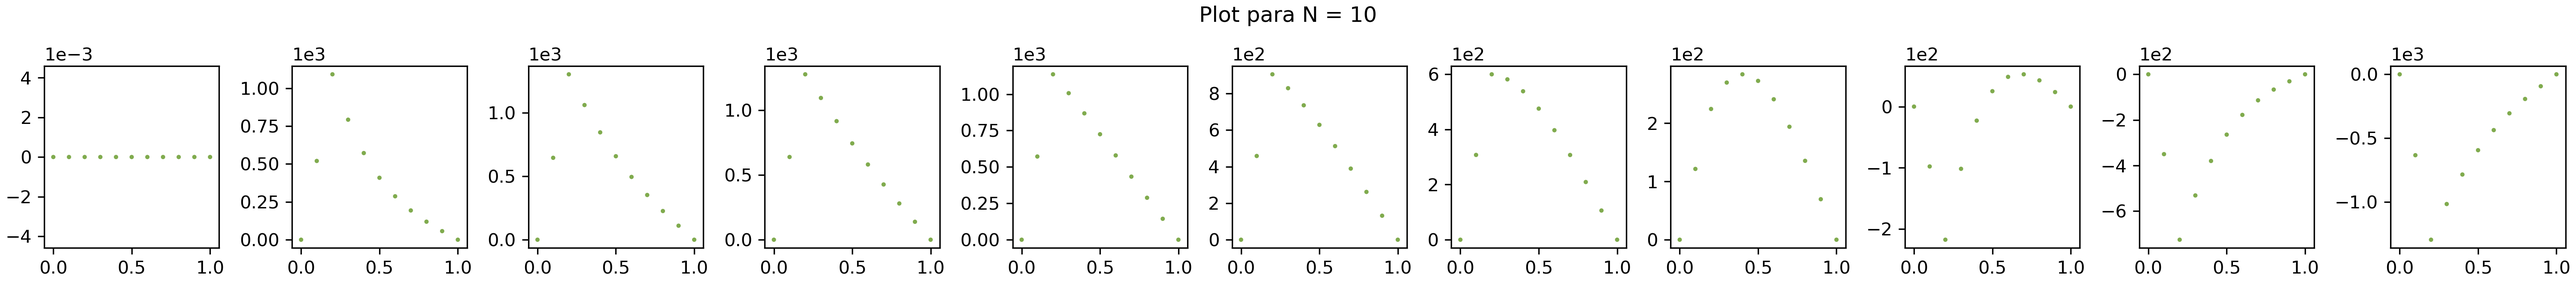
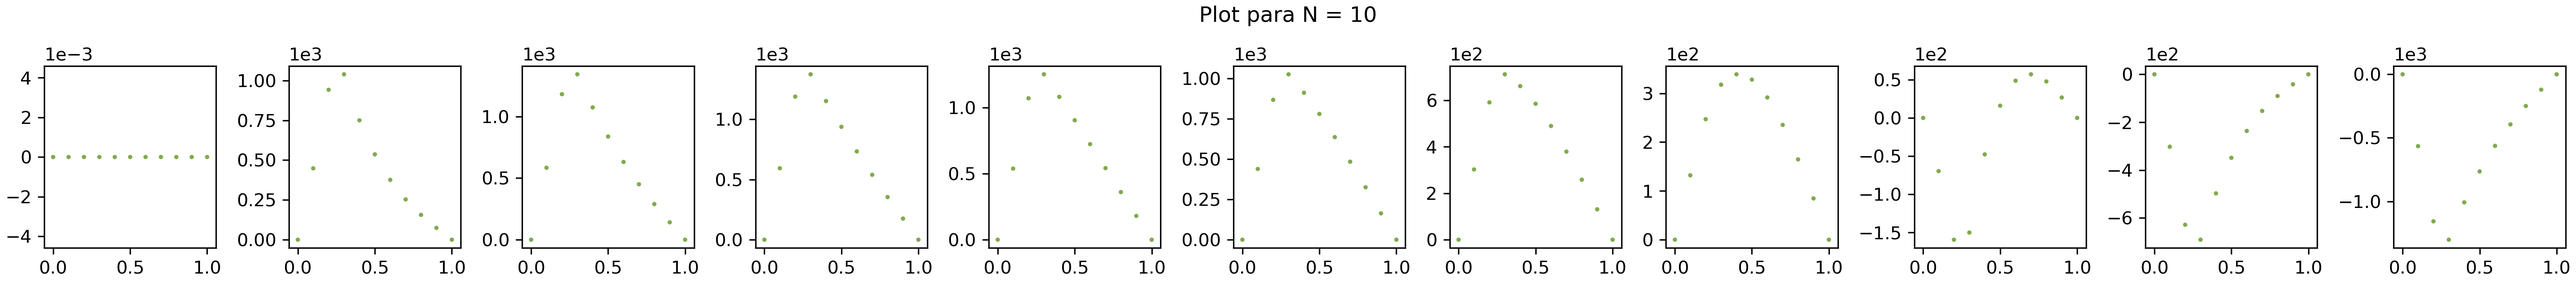
simplify letter c Task 2 matrix b

diff --git a/Segunda_tarefa/item_c.py b/Segunda_tarefa/item_c.py
@@ -68,10 +68,9 @@ def heat_equation(_u0, T, N, _f, _g1, _g2, _u=None):
         u_new = np.array([_g1((k+1)*dt)])
 
         # create b 
-        b = np.array([u_old[0] + (lamb/2)*(u_old[0] + 2*u_old[1] + u_old[2]) + (dt/2)*(_f(dt*(k+1),dx*0) + _f(dt*k,dx*0)) + (lamb/2)*_g1(dt*(k+1))])
-        for i in range(2, N-1):
+        b = np.array([])
+        for i in range(1, N):
             b = np.append(b, u_old[i] + (lamb/2)*(u_old[i-1] + 2*u_old[i] + u_old[i+1]) + (dt/2)*(_f(dt*(k+1),dx*i) + _f(dt*k,dx*i)))
-        b = np.append(b, u_old[N-1] + (lamb/2)*(u_old[N-2] + 2*u_old[N-1] + u_old[N]) + (dt/2)*(_f(dt*(k+1),dx*(N-1)) + _f(dt*k,dx*(N-1))) + (lamb/2)*+_g2(dt*(k+1)))
 
         # find x
         y = calculate_y(sub_L,b)
@@ -83,7 +82,6 @@ def heat_equation(_u0, T, N, _f, _g1, _g2, _u=None):
         
         # adicionar u(k+1,N) na u_new
         u_new = np.append(u_new, _g2((k+1)*dt))
-        """ print(u_new) """
         
         u_old = u_new.copy()
         # print(u_old)
